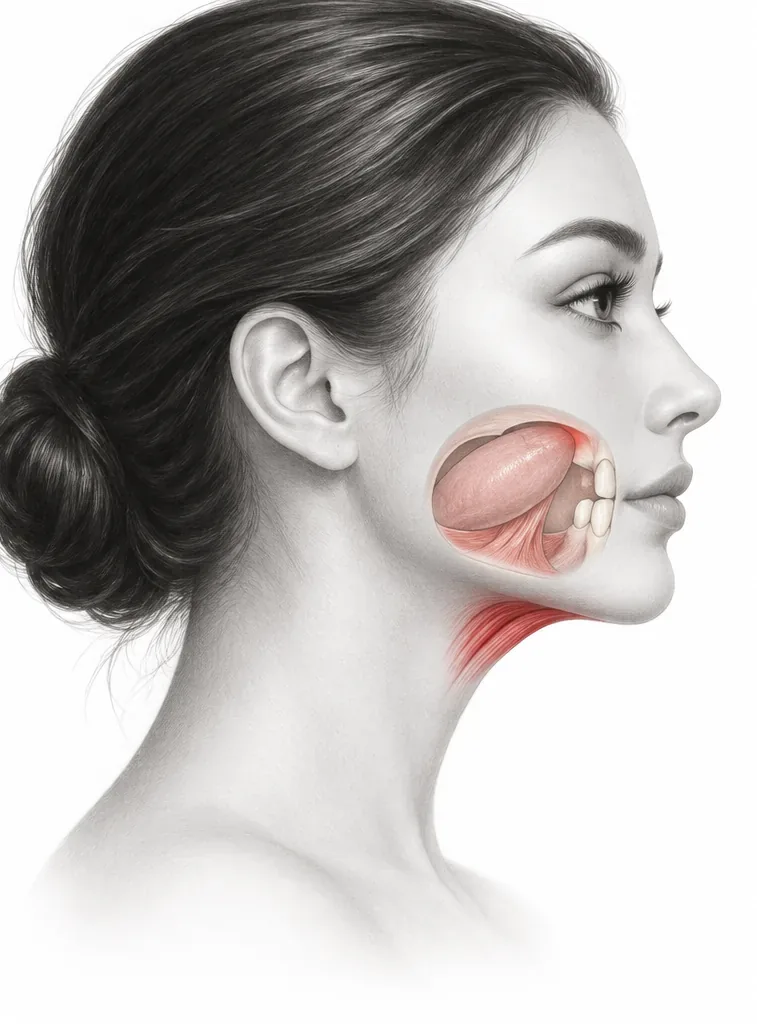
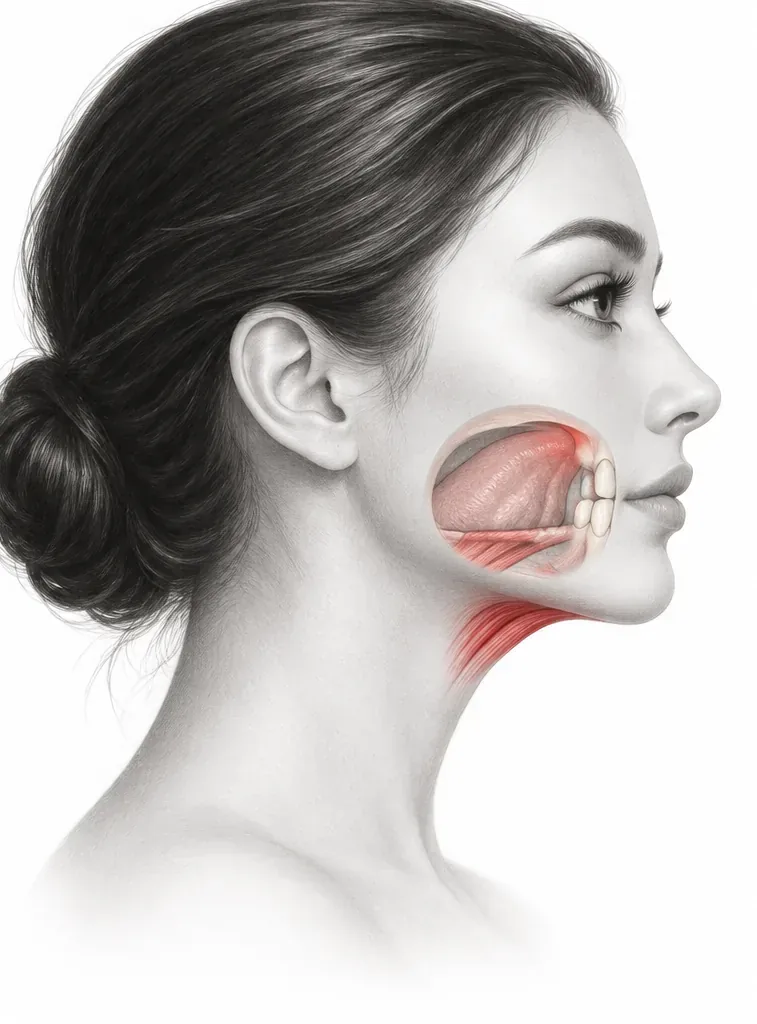
Tongue Press: give the woman a real tongue shape
Her pressed tongue was an egg-shaped blob. Her window now holds the man's
pressed tongue (tip behind the upper front teeth), colour-matched, with
her rim and teeth kept.

Claude-Session: https://claude.ai/code/session_01EBipzZcuqeqBDcYK7JrH5b

Changed region(s): [[0.5773, 0.4062, 0.79, 0.5625]]

diff --git a/docs/images.md b/docs/images.md
@@ -121,7 +121,9 @@ see-through window: the window was generated separately (same template, side pro
 then cut out as an ellipse and fitted onto the original drawing with face points (a similarity transform from nose,
 chin, lips and eyes; soft 9 px edge), so the man and woman stay the same as in every other exercise. Generating a whole
 new drawing changed the person, so don't. The window's originals and the generated images are in the Figma file
-"FaceRep exercise drawings" (owner's drafts).
+"FaceRep exercise drawings" (owner's drafts). The woman's generated pressed tongue came out as an egg-shaped blob, so
+her `exercise.webp` window has the man's pressed tongue in it (scaled 0.95, tip behind her upper front teeth, colours
+matched, her rim and teeth kept). A tongue must taper to a tip that touches the palate behind the upper front teeth.
 
 **Heroes** (photorealistic, same features, plain black crew-neck t-shirt, near-black low-key studio background):
 home 1536×1024, three-quarter view facing left, in the right third with the left two thirds empty for text (then cut to
